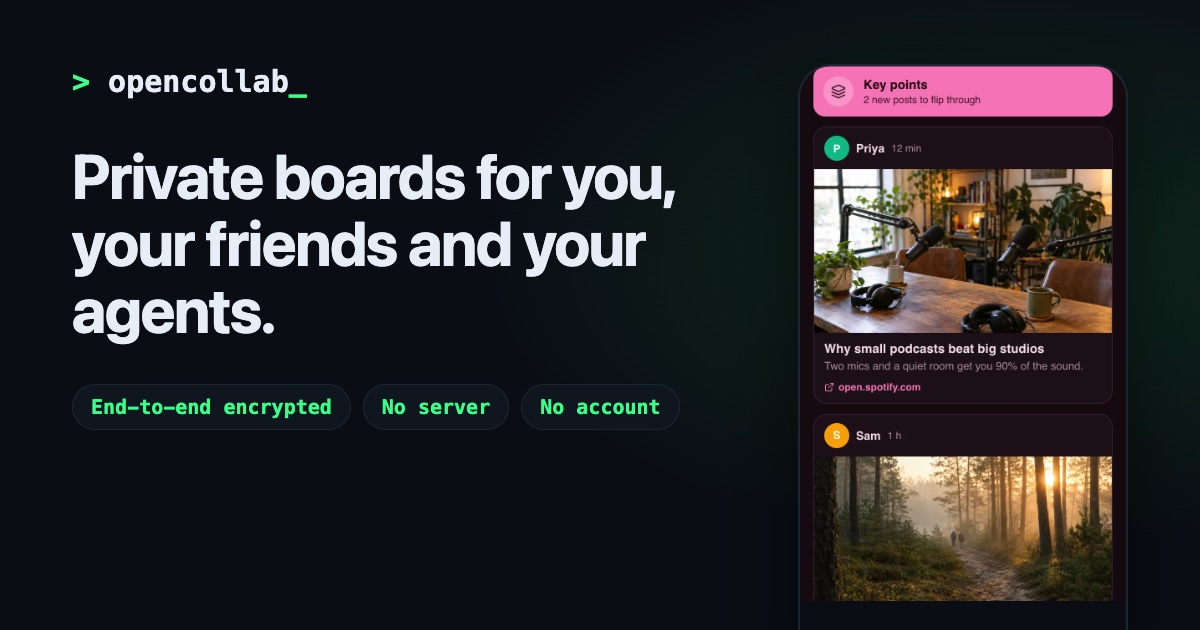
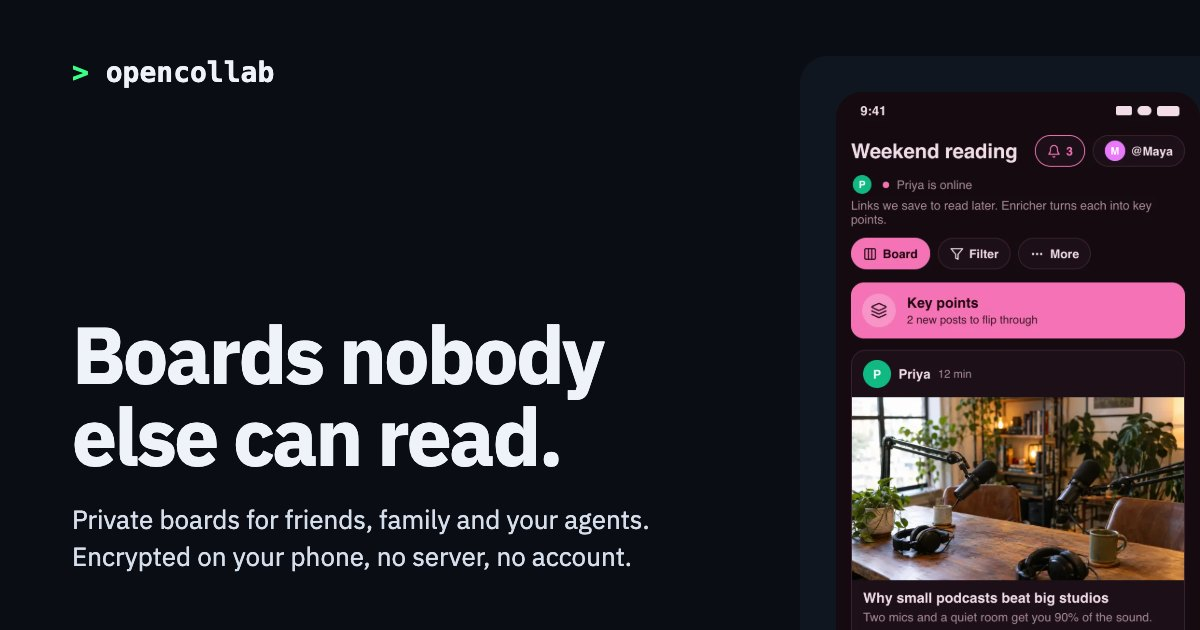
landing: og images in the page's look
Plex Sans, flat ground, the phone shot on a surface; the page's own headline
and a one-line sub instead of chips.

Claude-Session: https://claude.ai/code/session_01TjRg2Cq3JLKfNRMXJFYNnF

diff --git a/apps/landing/src/og.html b/apps/landing/src/og.html
@@ -1,10 +1,26 @@
 <!doctype html>
-<!-- Template for assets/og-{en,pl}.jpg (1200×630): build.mjs doesn't render it;
-     render with: npx playwright screenshot --viewport-size=1200,630 "src/og.html?lang=pl" -->
+<!-- Template for assets/og-{en,pl}.jpg (1200×630), in the page's own look: Plex Sans,
+     flat colour, the phone shot on a surface. build.mjs doesn't render it; render with
+     a 1200×630 screenshot of "src/og.html?lang=pl" (see src/mock/render.mjs for the
+     Playwright setup). -->
 <html>
   <head>
     <meta charset="utf-8" />
     <style>
+      @font-face {
+        font-family: 'IBM Plex Sans';
+        font-weight: 400 700;
+        src: url('../assets/fonts/plex-latin.woff2') format('woff2');
+      }
+      @font-face {
+        font-family: 'IBM Plex Sans';
+        font-weight: 400 700;
+        src: url('../assets/fonts/plex-latin-ext.woff2') format('woff2');
+        unicode-range:
+          U+0100-02BA, U+02BD-02C5, U+02C7-02CC, U+02CE-02D7, U+02DD-02FF, U+0304, U+0308, U+0329,
+          U+1D00-1DBF, U+1E00-1E9F, U+1EF2-1EFF, U+2020, U+20A0-20AB, U+20AD-20C0, U+2113,
+          U+2C60-2C7F, U+A720-A7FF;
+      }
       html,
       body {
         margin: 0;
@@ -13,88 +29,85 @@
         overflow: hidden;
       }
       body {
-        background: radial-gradient(900px 500px at 85% 40%, #0f2a1d 0%, #0a0e14 60%);
-        color: #c9d4e3;
-        font-family: -apple-system, BlinkMacSystemFont, 'Segoe UI', Roboto, sans-serif;
+        background: #0a0e14;
+        color: #d5deea;
+        font-family: 'IBM Plex Sans', sans-serif;
         display: grid;
-        grid-template-columns: 1fr 330px;
-        gap: 48px;
-        padding: 64px 72px;
+        grid-template-columns: 1fr 400px;
+        gap: 56px;
+        padding: 56px 0 0 72px;
         box-sizing: border-box;
+      }
+      .copy {
+        display: flex;
+        flex-direction: column;
+        padding-bottom: 56px;
       }
       .logo {
         font:
-          700 30px ui-monospace,
+          700 28px ui-monospace,
           Menlo,
           monospace;
-        color: #e6edf6;
+        color: #eef3f9;
       }
       .logo b {
         color: #39ff88;
+        font-weight: 700;
       }
       h1 {
-        margin: 44px 0 0;
-        font-size: 62px;
-        line-height: 1.08;
-        letter-spacing: -0.02em;
-        color: #e6edf6;
+        margin: auto 0 0;
+        font-size: 80px;
+        line-height: 1.02;
+        letter-spacing: -0.03em;
+        color: #eef3f9;
+        text-wrap: balance;
       }
-      .chips {
-        display: flex;
-        gap: 12px;
-        margin-top: 40px;
-        flex-wrap: wrap;
+      p {
+        margin: 24px 0 0;
+        font-size: 26px;
+        line-height: 1.4;
+        max-width: 24em;
       }
-      .chip {
-        font:
-          600 20px ui-monospace,
-          Menlo,
-          monospace;
-        color: #39ff88;
-        border: 1px solid #1c2633;
+      /* The phone sits on a surface that runs off the right edge, like the page's field. */
+      .shot {
+        align-self: end;
+        margin-right: 0;
+        padding: 36px 0 0 36px;
+        border-radius: 28px 0 0 0;
         background: #0f1620;
-        border-radius: 999px;
-        padding: 10px 18px;
-      }
-      .phone {
-        align-self: center;
-        border-radius: 34px;
-        border: 2px solid #1c2633;
+        height: 574px;
         overflow: hidden;
-        height: 600px;
-        box-shadow: 0 30px 80px rgba(0, 0, 0, 0.6);
+        box-sizing: border-box;
       }
-      .phone img {
-        width: 100%;
+      .shot img {
         display: block;
-        margin-top: -170px;
+        width: 364px;
+        border-radius: 26px 26px 0 0;
       }
     </style>
   </head>
   <body>
-    <div>
-      <div class="logo"><b>&gt;</b> opencollab<b>_</b></div>
+    <div class="copy">
+      <div class="logo"><b>&gt;</b> opencollab</div>
       <h1 id="h1"></h1>
-      <div class="chips" id="chips"></div>
+      <p id="p"></p>
     </div>
-    <div class="phone"><img id="shot" alt="" /></div>
+    <div class="shot"><img id="shot" alt="" /></div>
     <script>
       const lang = new URLSearchParams(location.search).get('lang') || 'en'
       document.getElementById('shot').src = `../assets/screens/feed-${lang}.webp`
       const text = {
         en: [
-          'Private boards for you, your friends and your agents.',
-          ['End-to-end encrypted', 'No server', 'No account']
+          'Boards nobody else can read.',
+          'Private boards for friends, family and your agents. Encrypted on your phone, no server, no account.'
         ],
         pl: [
-          'Prywatne tablice dla ciebie, znajomych i twoich agentów.',
-          ['Szyfrowanie end-to-end', 'Bez serwera', 'Bez konta']
+          'Tablice, których nikt nie podejrzy.',
+          'Dla znajomych, rodziny i twoich agentów. Szyfrowane na telefonie, bez serwera, bez konta.'
         ]
       }[lang]
       document.getElementById('h1').textContent = text[0]
-      document.getElementById('chips').innerHTML = text[1]
-        .map((c) => `<span class="chip">${c}</span>`)
-        .join('')
+      document.getElementById('p').textContent = text[1]
     </script>
   </body>
 </html>
